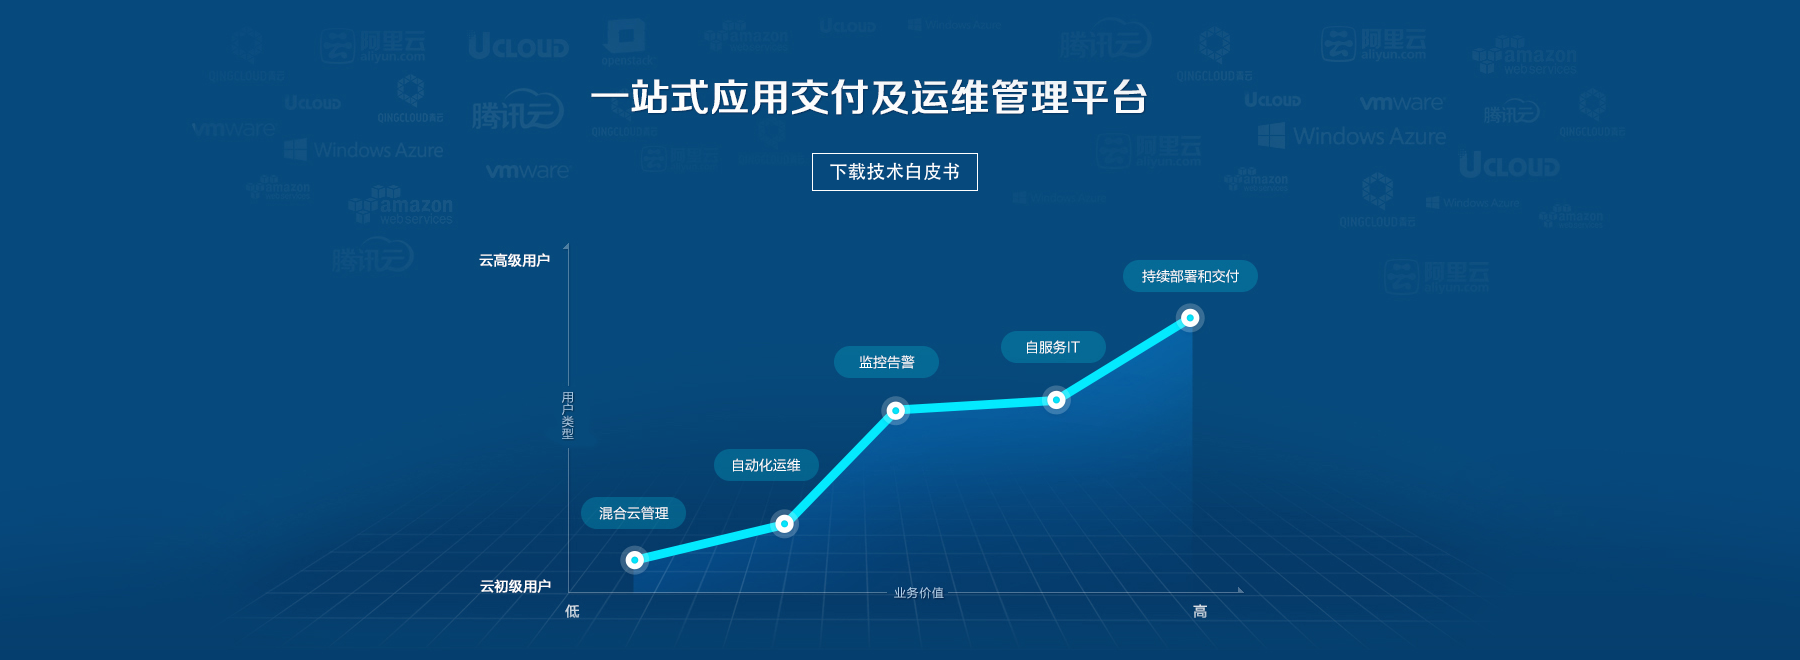
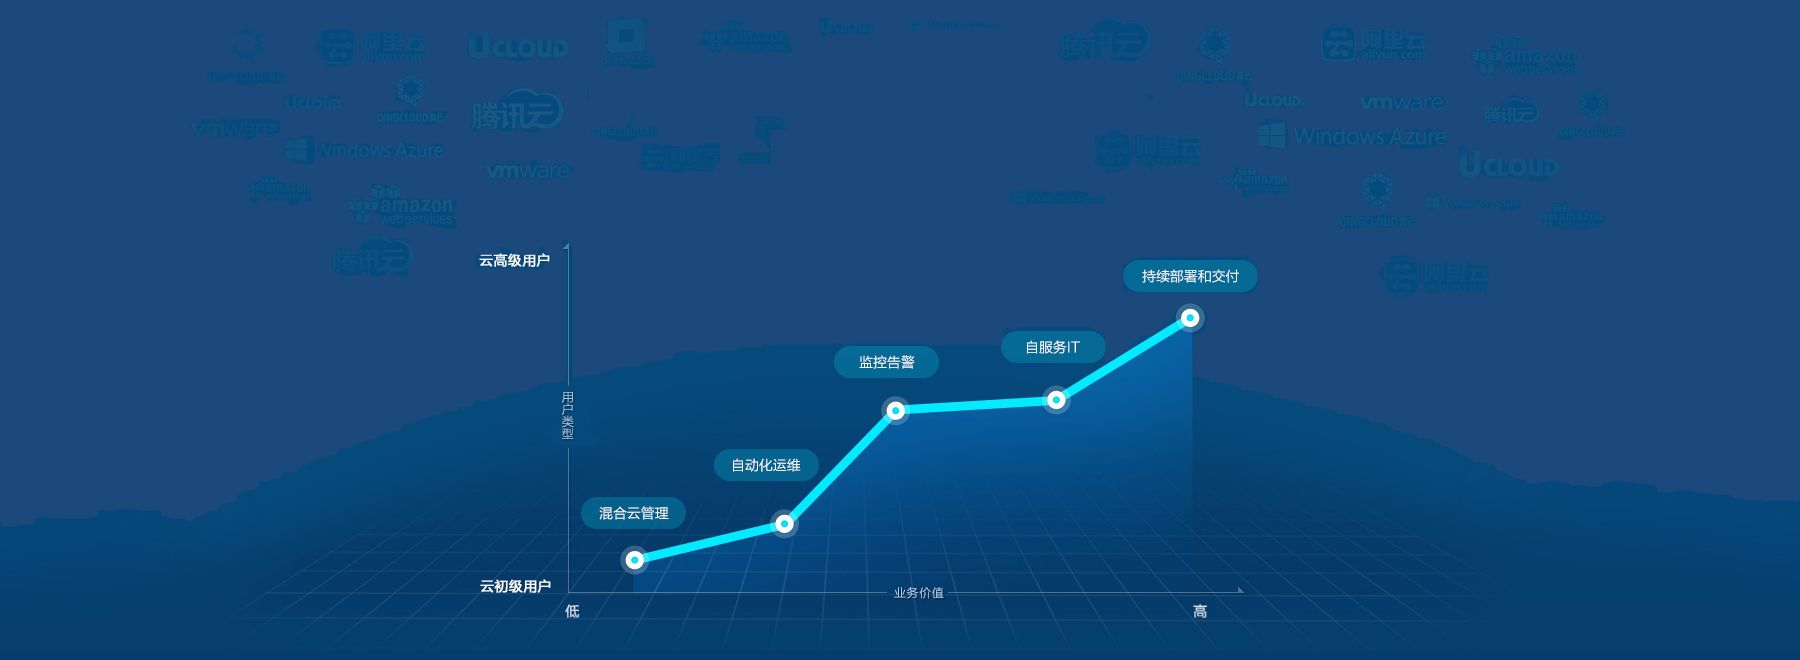
Change index page title

Changed region(s): [[0.3422, 0.1212, 0.6533, 0.1818], [0.4667, 0.2424, 0.5289, 0.2727]]

diff --git a/css/landing-page.css b/css/landing-page.css
@@ -33,7 +33,6 @@ h6 {
     text-align: center;
     color: #06497D;
     background: url(../img/saas/wall-1.jpg) no-repeat center 40px;
-    text-indent: -9999px;
     -webkit-background-size: cover;
     -moz-background-size: cover;
     -o-background-size: cover;
@@ -44,7 +43,6 @@ h6 {
     text-align: center;
     color: #06497D;
     background: url(../img/home-bg-6.png) no-repeat center 40px;
-    text-indent:-9999px;
     -webkit-background-size: cover;
     -moz-background-size: cover;
     -o-background-size: cover;
@@ -70,8 +68,13 @@ h6 {
     padding: 15px 0px 0px;
     float: right;
 }
-.intro-text{
-    display: none;
+
+.intro-text {
+    font-size: 50px;
+    font-weight:bold;
+    text-align:center;
+    color: white;
+    margin-top: 15%;
 }
 #intro-btn {
     position: relative;

diff --git a/_includes/home.html b/_includes/home.html
@@ -5,7 +5,7 @@
 				<div class="row">
 					<div class="col-lg-12">
 						<div class="intro-text">
-							<p>一站式应用交付及运维管理平台</p>
+                            <p>混合云管理及 DevOps 协作平台</p>
 						</div>
 					</div>
 				</div>

diff --git a/_layouts/default.html b/_layouts/default.html
@@ -2,9 +2,7 @@
 <html>
 	{% include header.html %}
 	<body>
-        <a class="home" href="/static/whitepaper.pdf">
 		{% include home.html %}
-        </a>
 		{% include introductions.html %}
         {% include userstory.html %}
 		{% include partners.html %}
